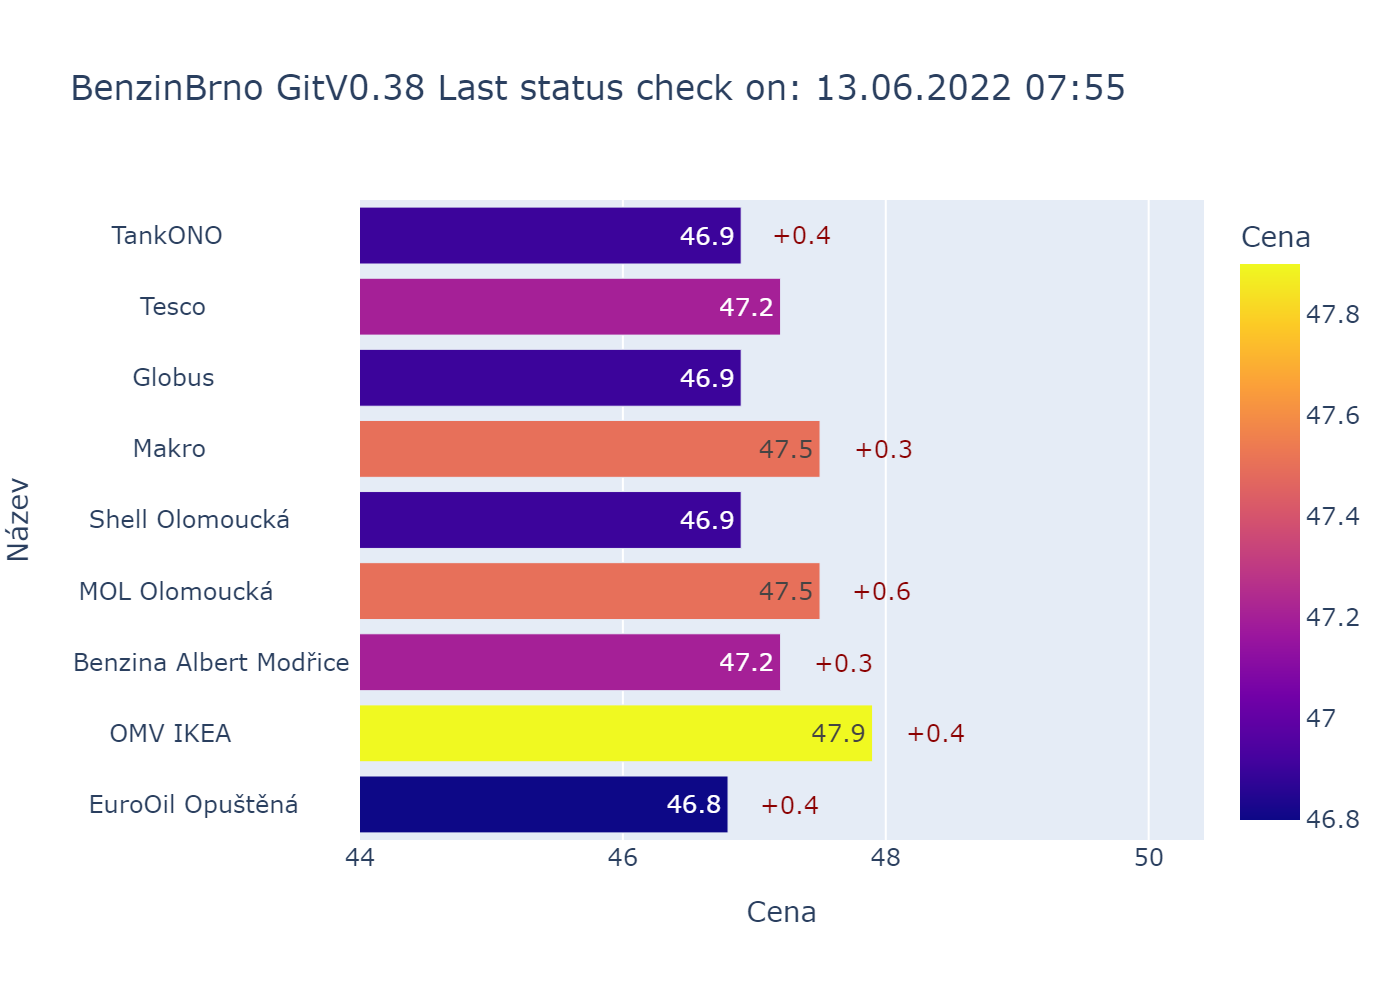
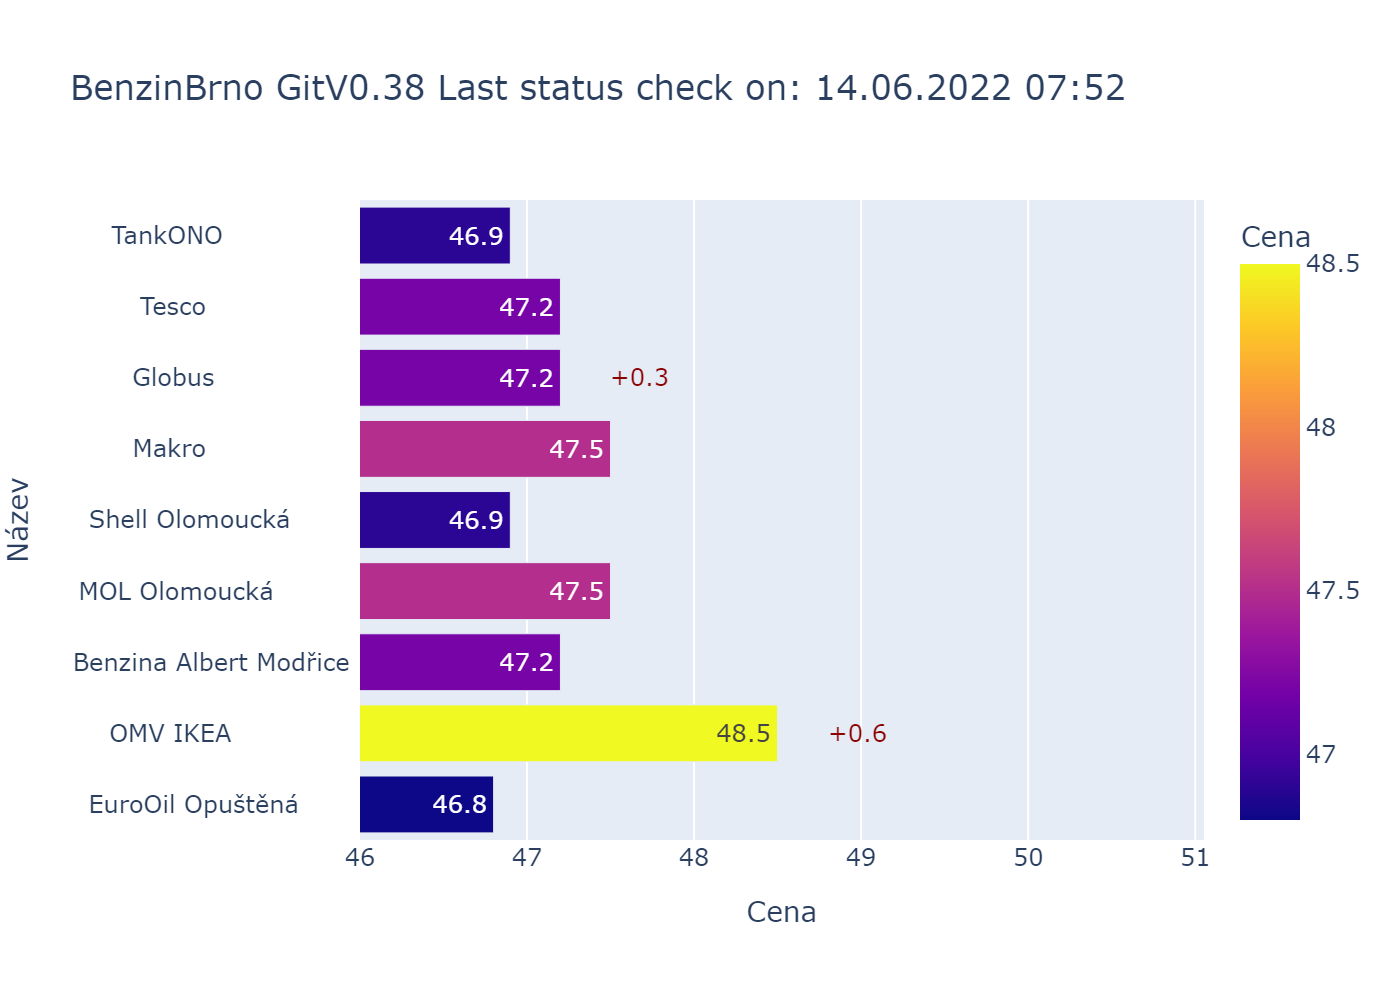
Win cmd line

diff --git a/bbCFG.py b/bbCFG.py
@@ -31,7 +31,7 @@ bbDateLog = "%d.%m.%Y--%H:%M"  # format casu
 # Formatovani Ceny (float) - Cena = '{:.2f}'.format(item)
 bbCenaMsk = '{:.2f}'  # format na 2 desetinna mista
 # Graf
-bbCenaMin = 44  # mdolni mez ceny na ose X v grafu
+bbCenaMin = 46  # mdolni mez ceny na ose X v grafu
 
 # brint - my print, pomoci *ssAll
 def brint(*ssAll):
